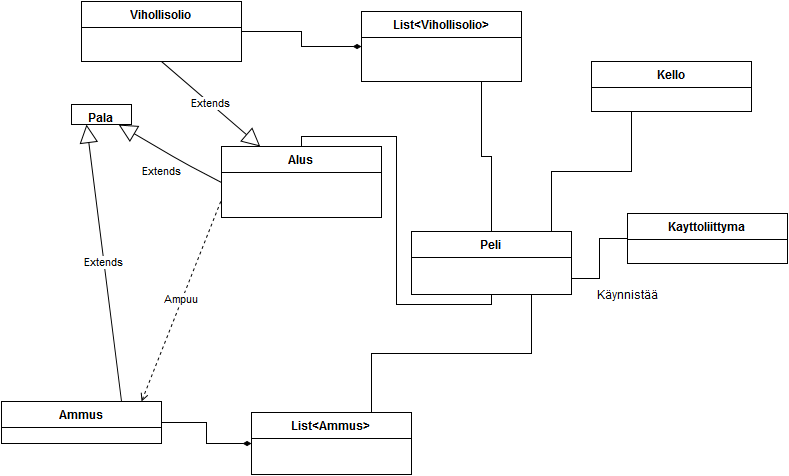
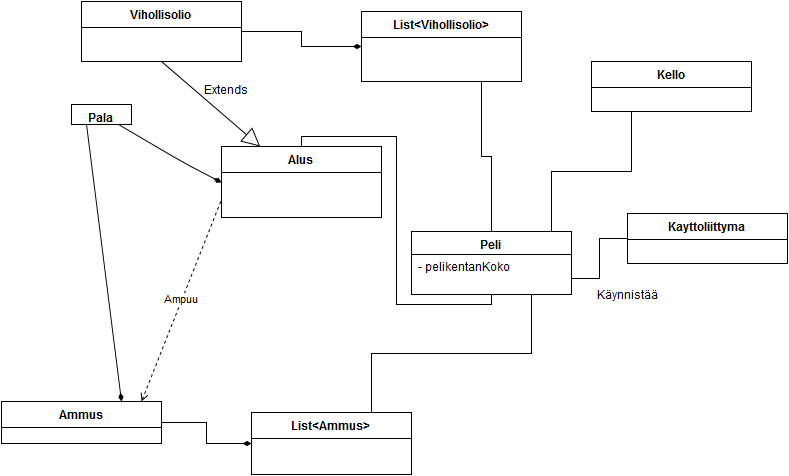
luokkakaavio paivitys

diff --git a/InvadersDefenderAdventure/src/main/java/invadersdefender/sovelluslogiikka/Vihollisolio.java b/InvadersDefenderAdventure/src/main/java/invadersdefender/sovelluslogiikka/Vihollisolio.java
@@ -1,0 +1,28 @@
+package invadersdefender.sovelluslogiikka;
+
+/**
+ *
+ * @author Emil
+ */
+public class Vihollisolio extends Alus {
+    
+    private Suunta suunta;
+
+    public Vihollisolio(int alkuX, int alkuY) {
+        super(alkuX, alkuY);
+        this.suunta = Suunta.ALAS;
+    }
+
+    public Suunta getSuunta() {
+        return suunta;
+    }
+
+    public void setSuunta(Suunta suunta) {
+        this.suunta = suunta;
+    }
+    
+    public void liiku() {
+        liiku(suunta);
+    }
+
+}
